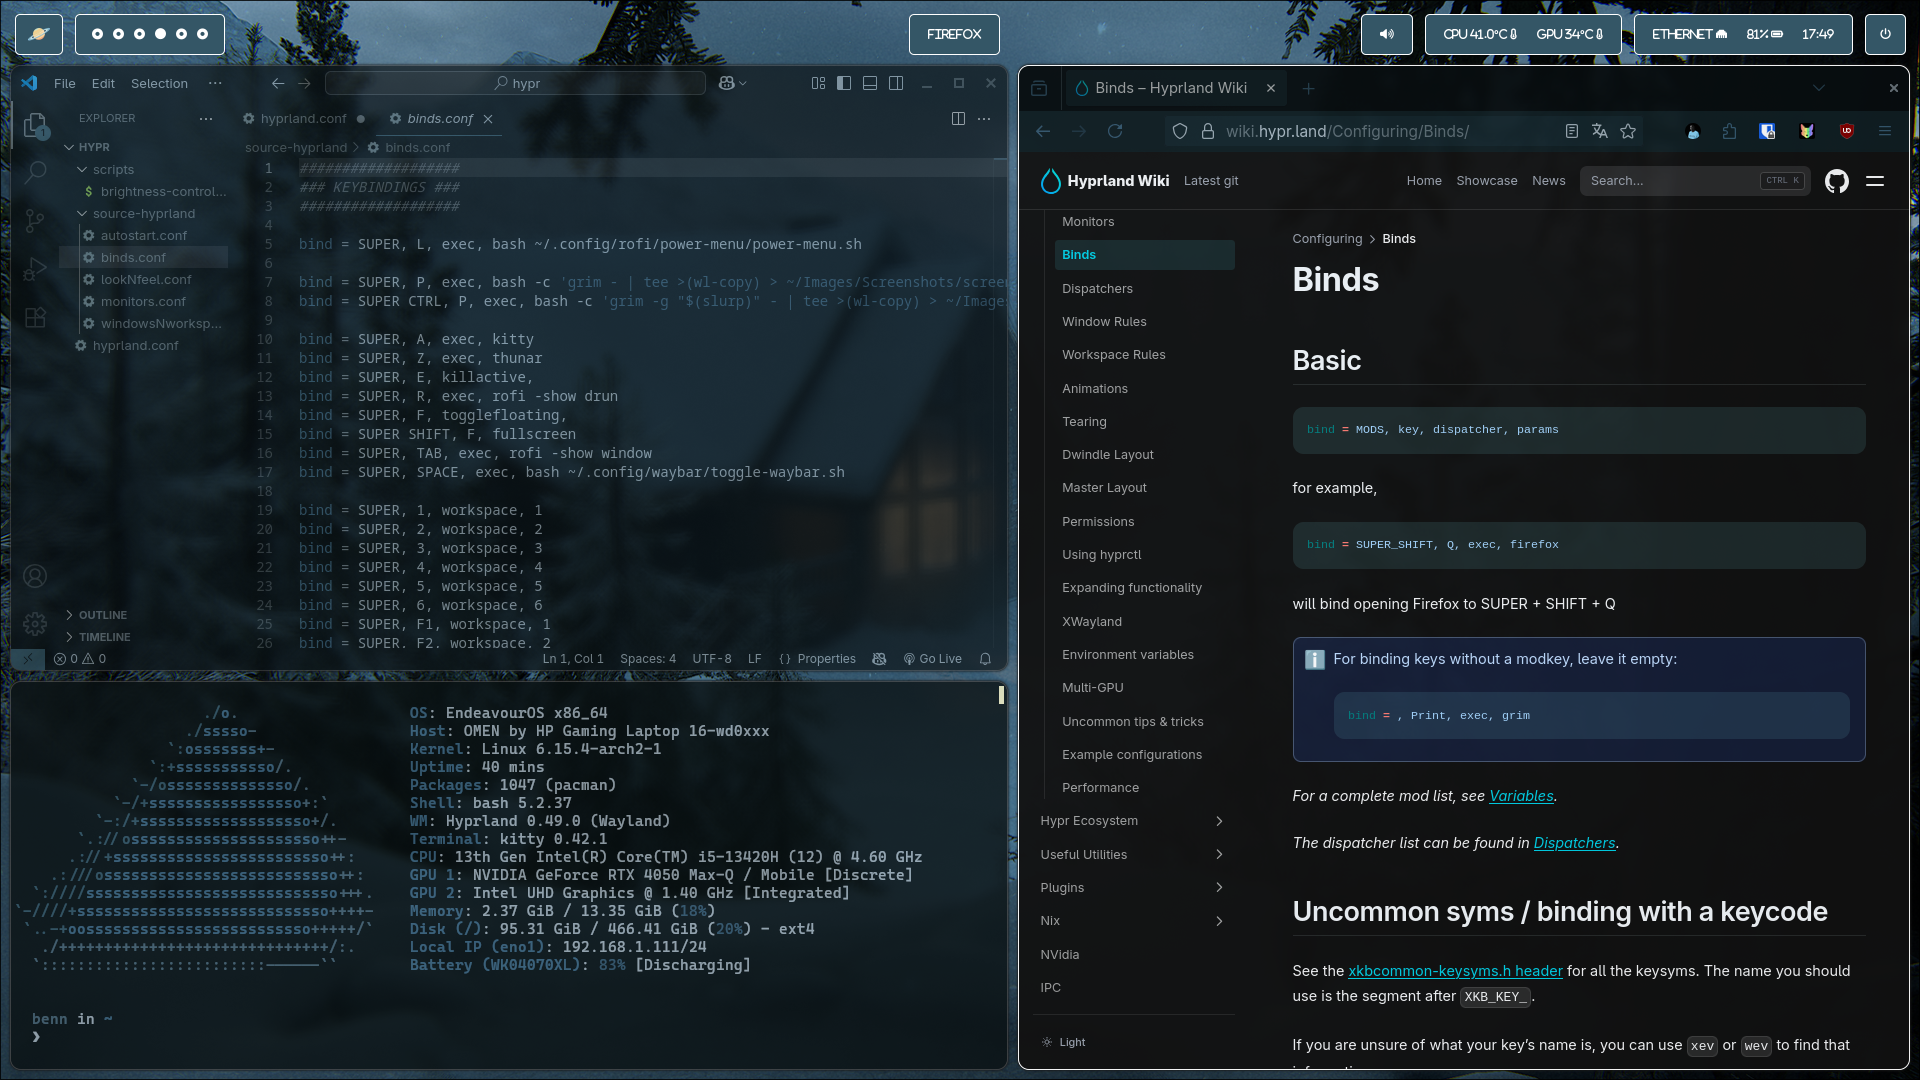
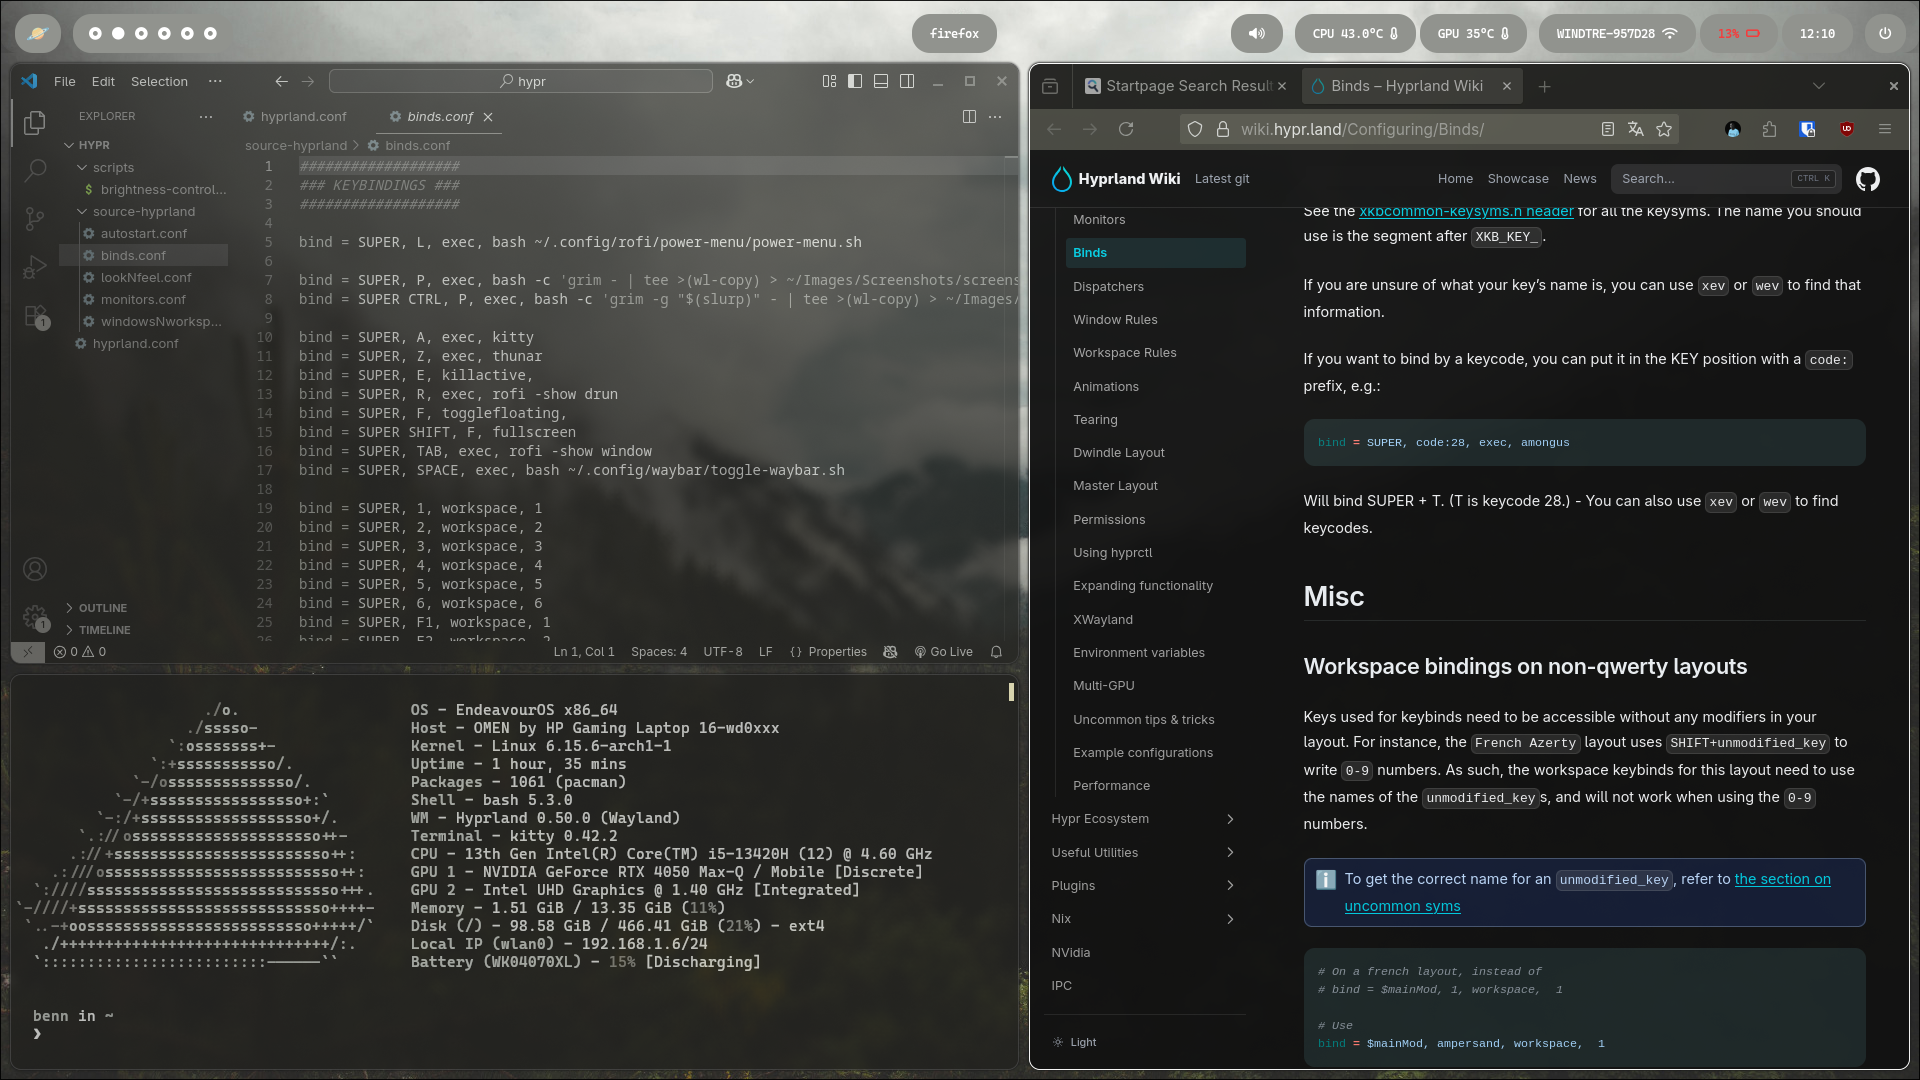
Update waybar style + update screenshot

diff --git a/.config/waybar/style.css b/.config/waybar/style.css
@@ -1,7 +1,7 @@
 * {
     font-family: Cascadia Code, "Font Awesome 6 Free", "Font Awesome 6 Brands";
     font-size: 12.5px;
-    font-weight: bold;
+    font-weight: 600;
     color: #ffffff;
     background-color: transparent;
     border-radius: 18px;

diff --git a/.config/waybar/colors-wal.css b/.config/waybar/colors-wal.css
@@ -11,5 +11,5 @@
 #battery.critical:not(.charging),
 #clock,
 #custom-power {
-    background-color: #966C34;
+    background-color: #91938E;
 }
